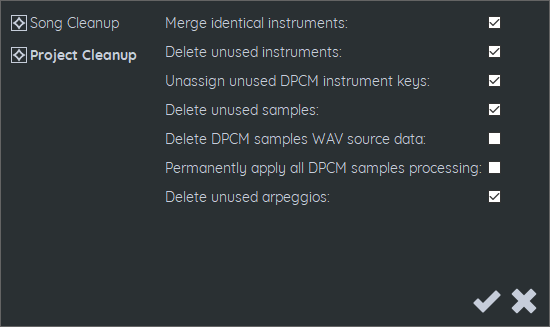
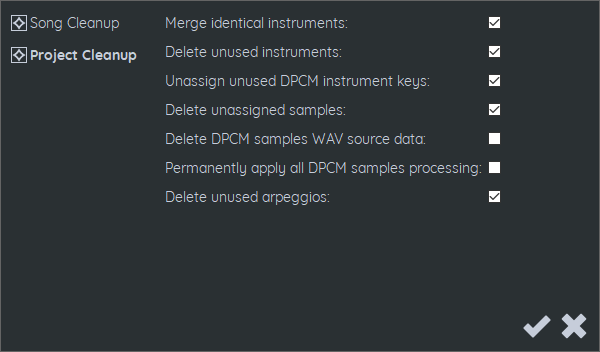
Update doc for 2.4.0.

diff --git a/FamiStudio/Source/Project/Project.cs b/FamiStudio/Source/Project/Project.cs
@@ -882,7 +882,7 @@ namespace FamiStudio
         {
             DeleteUnusedInstruments();
             UnmapUnusedSamples();
-            DeleteUnusedSamples();
+            DeleteUnmappedSamples();
             DeleteUnusedArpeggios();
         }
 
@@ -1224,42 +1224,6 @@ namespace FamiStudio
             foreach (var sample in samples)
             {
                 sample.PermanentlyApplyAllProcessing();
-            }
-        }
-
-        public void DeleteUnusedSamples()
-        {
-            var usedSamples = new HashSet<DPCMSample>();
-
-            foreach (var song in songs)
-            {
-                var channel = song.Channels[ChannelType.Dpcm];
-
-                for (int p = 0; p < song.Length; p++)
-                {
-                    var pattern = channel.PatternInstances[p];
-                    if (pattern != null)
-                    {
-                        foreach (var note in pattern.Notes.Values)
-                        {
-                            var mapping = GetDPCMMapping(note.Value);
-                            if (mapping != null && mapping.Sample != null)
-                            {
-                                usedSamples.Add(mapping.Sample);
-                            }
-                        }
-                    }
-                }
-            }
-
-            samples = new List<DPCMSample>(usedSamples);
-
-            for (int i = 0; i < samplesMapping.Length; i++)
-            {
-                if (samplesMapping[i] != null && !usedSamples.Contains(samplesMapping[i].Sample))
-                {
-                    samplesMapping[i] = null;
-                }
             }
         }
 

diff --git a/FamiStudio/Source/UI/Common/TransformDialog.cs b/FamiStudio/Source/UI/Common/TransformDialog.cs
@@ -63,7 +63,7 @@ namespace FamiStudio
                     page.AddBoolean("Merge identical instruments:", true);                    // 0
                     page.AddBoolean("Delete unused instruments:", true);                      // 1
                     page.AddBoolean("Unassign unused DPCM instrument keys:", true);           // 2
-                    page.AddBoolean("Delete unused samples:", true);                          // 3
+                    page.AddBoolean("Delete unassigned samples:", true);                      // 3
                     page.AddBoolean("Delete DPCM samples WAV source data:", false);           // 4
                     page.AddBoolean("Permanently apply all DPCM samples processing:", false); // 5
                     page.AddBoolean("Delete unused arpeggios:", true);                        // 6
@@ -176,7 +176,7 @@ namespace FamiStudio
 
                 if (deleteUnusedSamples)
                 {
-                    app.Project.DeleteUnusedSamples();
+                    app.Project.DeleteUnmappedSamples();
                 }
 
                 if (applyAllSamplesProcessing)

diff --git a/Docs/docs/importexport.md b/Docs/docs/importexport.md
@@ -1,6 +1,6 @@
 # Exporting Songs
 
-The export dialog is access through the main toolbar.
+The export dialog is access through the main toolbar or with CTRL+E on the keyboard. To quickly repeat a previous export (same format and output file), you can right click on the export icon in the toolbar or press CTRL+SHIFT+E.
 
 ## Wave / MP3 File
 
@@ -25,14 +25,11 @@ Video export is a great way to add a visual element to your songs when sharing t
 
 ![](images/VideoScreenshot.jpg#center)
 
-The exported videos are always 1080p / 60FPS at the moment (or 50FPS in PAL mode). 
-
 ![](images/ExportVideo.png#center)
 
 Besides the audio/video quality settings, there are a few options to control the look and feel of the video:
 
 * **Piano roll zoom** : The higher the zoom, the faster notes will scroll by. 
-* **Thin notes** : This will make the notes narrower (in the X direction). This is useful when exporting songs that have more than 5 channels.
 * **Channels** : It is recommended to not export channels that do not have any notes, this will leave more space to the other channels.
 
 ## Nintendo Sound Format
@@ -43,7 +40,7 @@ Every feature supported by FamiStudio can be used in an NSF.
 
 Song that do not use any audio expansion can export as PAL and Dual mode, where as only NTSC is available for expansion audio.
 
-The maximum song size is approximately 28KB minus the size of the DPCM samples used. Note that this size are not printed anywhere and are not related to the size of the *.fms file. Best to simply try and see if it works.
+The maximum song size is approximately 28KB minus the size of the DPCM samples used. Note that this size are not printed anywhere and are not related to the size of the \*.fms file. Best to simply try and see if it works.
 
 ## ROM / FDS Disk
 
@@ -102,9 +99,15 @@ FamiTracker speed | FamiTracker period | FamiStudio speed | FamiStudio period
 
 ## FamiStudio Text
 
-FamiStudio text format is a textual representation of the of the binary FamiStudio format. It is designed to favor interopability with other softwares, tools and sound engines. Exporting or importing this mostly lossless. The only this not stored in this format are the custom colors assigned to instruments, patterns and songs (they will be randomized every time you re-import the file).
+FamiStudio text format is a textual representation of the of the binary FamiStudio format. It is designed to favor interopability with other softwares, tools and sound engines. 
 
 ![](images/ExportFamiStudioText.png#center)
+
+Exporting or importing using this format mostly lossless. These are the features that will not be preserved:
+
+* The custom colors assigned to songs, instruments, patterns, arpeggios and DPCM samples will not be preserved, they will be randomized every time you re-import the file.
+
+* Only the final processed data of DPCM samples will exported. The source data as well as any processing parameter will be lost. 
 
 ### Format Specification
 
@@ -164,8 +167,7 @@ Project | Version | Yes | The FamiStudio version that exported the file.
 | Author | | Author of the project
 | Copyright | | Copyright of the project
 DPCMSample | Name | Yes | The name of the sample.
-| ReverseBits | Yes | When True, each the bits of each nibble in Data should be reversed for playback.
-| Data | Yes | The data as a series of hexadecimal nibbles.
+| Data | Yes | The processed data as a series of hexadecimal nibbles.
 DPCMMapping | Note | Yes | Piano note to map the sample to (Between C1 and D6).
 | Sample | Yes | Name of the DPCMSample to map.
 | Pitch | | Pitch of the sample.
@@ -274,6 +276,7 @@ Besides effects, there are also other limitations:
 * Instruments using both pitch and arpeggio envelopes at the same time will not sound the same as in FamiTracker. This is due to the vastly different way both applications handles these. FamiTracker re-triggers the pitch envelope at each arpeggio notes (probably the more sensible way), while FamiStudio simply runs both at the same time.
 * VRC6 saw channel is not influenced by duty cycle in FamiStudio. FamiStudio always allow the full volume range for the saw. Import/export process does not try account for this. This might lead to volume inconsistencies between FamiTracker and FamiStudio where the volume needs to be doubled or halved to sound correct.
 * Vibrato effect might sound a bit different, please see table above for exact mappings.
+* The noise channel in FamiStudio is not affected by pitch envelope or any pitch effects (1xx, 2xx, 3xx, Qxx and Rxx).
 
 When importing from FamiTracker, all possible slide effects (1xx, 2xx, 3xx, Qxx and Rxx) will be converted to slide notes. Sometimes attack will be disabled as well to mimic the same behavior. This in an inherently imperfect process since they approaches are so different. For this reason, importing/exporting slide notes with FamiTracker should be considered a **lossy** process.
 
@@ -294,6 +297,7 @@ Most NSF file will not contain the names of songs so they will usually have plac
 * **Start frame** : Used to offset the entire song by a number of frames. This is useful when a song has an intro that is not the same length as the other patterns.
 * **Remove intro silence** : Some songs start with a bit of silence, this will wait until any sound is produce to start recording.
 * **Reverse DPCM bits** : This will set the "Reverse Bits" flag on all the imported samples. This come from a recent discovery that quite a few games had packed their bits in the wrong order, leading to samples sounding worse than they should.
+* **Preserve DPCM padding bytes** : Force FamiStudio to keep the last byte of every sample, this will make all samples 16 bytes larger simply to keep an extra byte. This could be useful to keep looping samples intact. Should remain off most of the time since most games seem to ignore this byte.
 
 NSF file are essentially programs designed to run on actual hardware. They will contain no instrument, no envelopes, no repeating pattern, etc. All the volumes and pitches will be set through the effect panel. They are going to appear extremely messy and unoptimized. 
 

diff --git a/Docs/docs/sequencer.md b/Docs/docs/sequencer.md
@@ -8,7 +8,7 @@ Patterns are laid out on one of the five channels that NES support (more if you 
 
 ## Seeking
 
-Clicking in the timeline (header) of the sequencer will move the play position.
+Clicking in the timeline (header) of the sequencer will move the play position. You can also drag the seek back to more it more accurately.
 
 ## Changing the active channel
 
@@ -40,7 +40,7 @@ Clicking a pattern selects it and opens the piano roll for the current channel a
 
 ![](images/EditPattern.png#center)
 
-You can select multiple patterns by right-cliking and dragging in the header bar of the Sequencer. To un-select everything, simply press Esc. When multiple patterns are selected, only the color can be edited.
+You can select multiple patterns by right-cliking and dragging in the header bar of the Sequencer or in an empty space in the sequencer. To un-select everything, simply press Esc. When multiple patterns are selected, only the color can be edited.
 
 ![](images/PatternSelection2.png#center)
 
@@ -54,17 +54,27 @@ When one or multiple patterns are selected, dragging them will move them in the 
 
 ![](images/InstancePattern.png#center)
 
-Holding CTRL+SHIFT while dragging will create a completely independant copy of the selected patterns. This will be showned by a "copy" icon when dragging. They will change name and possibly color as well. 
+Holding CTRL+SHIFT while dragging will create a completely independant copy of the selected patterns. This will be showned by a "copy" icon when dragging. They will be renamed in the process.
 
 ![](images/CopyPattern.png#center)
 
-Dragging a pattern to a different channel will create a copy, but delete the original. This is because internally, patterns cannot be shared accross different channels. The pattern will loose its name and may change color. Holding CTRL+SHIFT will preserve the original (create a copy). 
+Dragging a pattern to a different channel will create a copy, but delete the original. This is because internally, patterns cannot be shared accross different channels. The pattern may be renamed in the processs. Holding CTRL+SHIFT will preserve the original (create a copy). 
 
 ![](images/MovePatternDifferentChannel.png#center)
 
 ## Cut/copy/pasting patterns
 
 When one or multiple patterns are selected, press CTRL+C (or CTRL+X for cut). Move the selection somewhere else and paste with CTRL+V. Copy and pasting always create instances of patterns.
+
+## Paste Special
+
+Pressing CTRL+SHIFT+V will open the **Paste Special** dialog which gives more options than a regular paste.
+
+![](images/PasteSpecialSequencer.png#center)
+
+* **Insert** : Will insert the copied patterns and move all the existing ones to the right.
+* **Extend song** : Will extend the song duration to accomodate the newly inserted patterns (Only available when Insert is enabled).
+* **Repeat** : Allows pasting the copied patterns multiple times in a row.
 
 ## Copy/pasting patterns between projects
 
@@ -84,7 +94,7 @@ You can move the loop point around by holding the **L** key and clicking at a lo
 
 ## Custom pattern settings
 
-Double clicking on the header of sequencer will allow you to set some customs settings for a column of patterns. This will allow you to change the number of notes and tempo parameters.
+Double clicking on the header of sequencer will allow you to set some customs settings for one or multiple columns of patterns. This will allow you to change the number of notes and tempo parameters.
 
 ![](images/CustomPatternSettings.png#center)
 
@@ -94,6 +104,6 @@ FamiStudio Tempo | FamiTracker tempo
 ---  | ---
 ![](images/CustomPatternSettingsNoPAL.png#center) | ![](images/CustomPatternSettingsFamiTracker.png#center) 
 
-Enabling **Custom Pattern** will allow you to change the values. Once a pattern has any kind of custom setting, it will no longer take its values from the Song's properties and will be display with a **asterisk (*)** next to its index in the Sequencer.
+Enabling **Custom Pattern** will allow you to change the values. Once a pattern has any kind of custom setting, it will no longer take its values from the Song's properties and will be display with a **asterisk (\*)** next to its index in the Sequencer.
 
 The parameters here are the same as when editing the [Song properties](song.md), but are localized to a column of patterns.

diff --git a/Docs/docs/soundengine.md b/Docs/docs/soundengine.md
@@ -1,10 +1,10 @@
-# FamiStudio NES Sound Engine
+# FamiStudio NES/Famicom Sound Engine
 
 This section will cover the NES sound engine that comes with FamiStudio that you can use to play music/sound effects made with FamiStudio in your homebrew NES games.
 
 ## Overview
 
-The FamiStudio sound engine is used by the NSF and ROM exporter of FamiStudio and can be used to make homebrew NES games. It supports every feature from FamiStudio, including audio expansions, and will continue to do so in the future. Some of these features are toggeable to save CPU/memory.
+The FamiStudio sound engine is used by the NSF and ROM exporter of FamiStudio and can be used to make homebrew NES/Famicom games. It supports every feature from FamiStudio, including audio expansions, and will continue to do so in the future. Some of these features are toggeable to save CPU/memory.
 
 The engine is essentially a heavily modified version of [FamiTone2 by Shiru](https://shiru.untergrund.net/code.shtml). A lot of his code and comments are still present, so massive thanks to him!! I am not trying to steal his work or anything, i renamed a lot of functions and variables because at some point it was becoming a mess of coding standards and getting hard to maintain.
 
@@ -36,7 +36,7 @@ Features that can be toggled on/off depending on the needs of your projects:
 * PAL/NTSC playback support. 
 * DPCM sample support
 * Sound effect support (with configurable number of streams)
-* Blaarg Smooth Vibrato technique to eliminate "pops" on square channels (incompatible with SFX at the moment)
+* Blaarg Smooth Vibrato technique to eliminate "pops" on square channels
 * FamiTracker/FamiStudio tempo mode.
 * Volume track support.
 * Fine pitch track support.
@@ -205,8 +205,7 @@ These are parameters that configures the engine, but are independent of the data
     FAMISTUDIO_CFG_SFX_STREAMS   = 2
 
     ; Blaarg's smooth vibrato technique. Eliminates phase resets ("pops") on
-    ; square channels. Will be ignored if SFX are enabled since they are 
-    ; currently incompatible with each other. This might change in the future.
+    ; square channels. 
     FAMISTUDIO_CFG_SMOOTH_VIBRATO = 1 
 
     ; Enables DPCM playback support.
@@ -259,6 +258,3 @@ Every feature supported in FamiStudio is supported by this sound engine. If you 
 ## Exporting Music/SFX to the engine
 
 You can export music or sound effect data to the engine by using either the [Export Dialog](importexport.md) or from the [command line](cmdline.md).
-
-
-

diff --git a/Docs/docs/cleanup.md b/Docs/docs/cleanup.md
@@ -4,22 +4,32 @@
 
 The clean-up dialog dialog is accessed from the toolbar. It can perform various cleaning operations, such as deleting unused elements and merging identical ones.
 
-![](images/Cleanup.png#center)
+## Cleaning-up Song
 
-Here are the operations that can be performed:
+![](images/CleanupSong.png#center)
+
+Here are the operations that can be performed on songs:
 
 * **Merge identical patterns** : Patterns that are identical on the same channel will be assumed to be the same and will all be replaced by instances of a single one. To be identical, patterns must have the exact same notes, effects, etc.
 
 * **Delete empty patterns** : Patterns with zero notes or effect values will be deleted. Only applies to the selected songs. 
 
+## Cleaning-up Projects
+
+![](images/CleanupProject.png#center)
+
+Here are the operations that can be performed on the project:
+
 * **Merge identical instruments** : Instruments that have the same settings and envelopes will be combined into ones and every notes using the intruments to be deleted will use the new one. 
 
 * **Delete unused instruments** : Instruments without a single note played will be deleted.
 
-* **Delete unused samples** : Samples without a single note played will be deleted.
+* **Unassign unused DPCM instrument keys** : Unassign samples to keys of the DPCM instrument that are not used by any song in the project.
+
+* **Delete unassigned samples** : Samples that are not assigned to any key of the DPCM instrument will be deleted.
+
+* **Delete DPCM samples WAV source data** : Remove all the source data of any DPCM sample that was created from a WAV file. This will essentially replace the source data of these samples with its processed DMC data and reset all the processing parameters. Only do this when you know you are completely done adjusting your samples, to reduce the file size. This will not affect the sound of the song, but will severely limit your ability to go back and adjust things like volume, etc.
+
+* **Permanently apply all DPCM sample processing** : Same as above but for all samples, not just WAV files. 
 
 * **Delete unused arpeggios** : Arpeggios that are not used by a single note will be deleted.
-
-
-
-

diff --git a/Docs/docs/pianoroll.md b/Docs/docs/pianoroll.md
@@ -21,13 +21,19 @@ In FamiTracker tempo mode, you do not have access to the individual frames, so t
 
 ## Seeking
 
-Clicking in the timeline (header) of the piano roll will move the play position.
+Clicking in the timeline (header) of the piano roll will move the play position. You can also drag the seek back to more it more accurately.
 
 ## Adding and deleting notes
 
 Clicking a pattern in the sequencer will scroll the piano roll to its location. Left-clicking in the piano roll will add a note of the currently selected instrument. Holding the mouse when clicking will allow you to drag the note and will give audio feedback. You cannot add a note where the is not a pattern created.
 
 Right-clicking deletes a note.
+
+## Instrument Picker
+
+Holding **I** and clicking on a note will make the instrument of that note the current instrument. This is often known as the eye dropper or pipette tool in drawing software.
+
+![](images/InstrumentPicker.png#center)
 
 ## Recoding mode
 
@@ -102,7 +108,7 @@ If an instrument uses an arpeggio envelope and also uses an arpeggio chord, the 
 
 ## Selecting and editing notes
 
-You can select notes by right-clicking and dragging in the header of the piano roll. Selected notes will appear with a thick silver border. Once notes are selected, then can be moved using the arrows keys (up, down, left and right). Holding CTRL while doing so will make the notes move by larger increments.
+You can select notes by right-clicking and dragging in the header of the piano roll or anywhere in the background of the piano roll (where there is no note). Selected notes will appear with a thick silver border. Once notes are selected, then can be moved using the arrows keys (up, down, left and right). Holding CTRL while doing so will make the notes move by larger increments.
 
 ![](images/SelectNotes.png#center)
 

diff --git a/Docs/docs/config.md b/Docs/docs/config.md
@@ -43,9 +43,13 @@ The configuration dialog dialog is accessed from the toolbar.
 
 ![](images/ConfigSound.png#center)
 
+* **Number of buffered frames** : Number of NES/Famicom frames to buffer ahead of time. Higher values help prevent audio starvation, but also raise latency. The minimum is 2 and requires a relatively fast CPU to run without audio starvation.
+
 * **Stop instrument after**: When instruments have release notes, there is no way for FamiStudio to know when to stop the notes. This allows stopping any sound after a specified number of seconds. This only applies to MIDI or when previewing instruments on the piano roll and has no impact on the actual song.
 
-* **Prevent popping on square channels**: The NES had a bug where the phase of square channels will reset around some notes (A-3, A-2, D-2, A-1, F-1, D-1, and B-0 on NTSC, or A#3, A#2, D#2, A#1, F#1, D#1, and C-0 on PAL), resulting in audible clicks or pops. This option will work around that bug using the Smooth Vibrato technique by Blargg, resulting in smooth pitch changes. Note that this option will not carry over to FamiTracker if you export.
+* **Prevent popping on square channels**: The NES/Famicom had a bug where the phase of square channels will reset around some notes (A-3, A-2, D-2, A-1, F-1, D-1, and B-0 on NTSC, or A#3, A#2, D#2, A#1, F#1, D#1, and C-0 on PAL), resulting in audible clicks or pops. This option will work around that bug using the Smooth Vibrato technique by Blargg, resulting in smooth pitch changes. Note that this option will not carry over to FamiTracker if you export.
+
+* **Mute piano roll interactions during playback** : When enabled, dragging/adding notes in the piano roll will not preview the notes when the song is playing. Some users find this distracting.
 
 ## MIDI Configuration
 

diff --git a/Docs/docs/expansion.md b/Docs/docs/expansion.md
@@ -2,7 +2,7 @@
 
 ## Overview
 
-Expansion audio refers to extra hardware that were present on some NES cartridges (or add-on in the case of the Famicom Disk System). These chips added a few extra audio channels on top of the standard 5 channels.
+Expansion audio refers to extra hardware that were present on some Famicom cartridges (or add-on in the case of the Famicom Disk System). These chips added a few extra audio channels on top of the standard 5 channels.
 
 List of expansions supported:
 
@@ -12,7 +12,7 @@ List of expansions supported:
 
 * **Famicom Disk System**: Adds an extra channel that uses a wavetable and a modulation unit to create a wide range of sound. 
 
-* **Nintendo MMC5**: Adds 2 extra square channels. They are extremely similar to the regular square channels of the NES, and also suffer from the same phase reset issue. Unlike the stock square channels, the reset bug cannot be worked around.
+* **Nintendo MMC5**: Adds 2 extra square channels. They are extremely similar to the regular square channels of the Famicom, and also suffer from the same phase reset issue. Unlike the stock square channels, the reset bug cannot be worked around.
 
 * **Namco 163**: Adds up to 8 wavetable channels. It has 128 bytes of RAM to store all the currently used waveforms. Waveforms can be 4, 8, 16 and 32 in size. Smaller waveforms will sound worse, but you can have more of them at any given time. FamiStudio will work at its best with a sample size of 16. Also, it should be noted that for technical reasons, the more channels you add, the worse the audio quality will be. It is recommanded that you use 4 channels or less, which is what most games using the expansion did. 
 

diff --git a/Docs/docs/index.md b/Docs/docs/index.md
@@ -15,7 +15,7 @@ Welcome to the FamiStudio documentation. Please use the __User Guide__ menu abov
 * [Cleaning-up your Project](cleanup.md)
 * [Configuring FamiStudio]( config.md)
 * [Command-line Processing](cmdline.md)
-* [NES Sound Engine](soundengine.md)
+* [NES/Famicom Sound Engine](soundengine.md)
 * [Troubleshooting](troubleshooting.md)
 * [Change Log](changelog.md)
 
